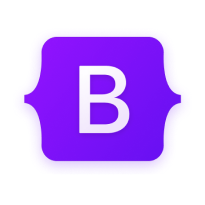
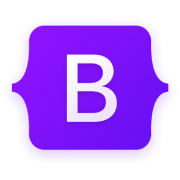
skills tamaño

Changed region(s): [[0.0556, 0.1389, 0.9444, 0.8889], [0.3611, 0.2778, 0.6667, 0.6944]]

diff --git a/index.html b/index.html
@@ -143,42 +143,42 @@
                 <h2 class="text-center">SKILLS</h2>
             </div>
             <div class="row">
-                <div class="col-xs-3 col-sm-3 col-md-3 mb-4">
+                <div class="col-xs-6 col-md-3 col-sm-3 mb-4">
                     <div class="cardSkills ">
                         <img src="img/htmltransp.png" alt="" class="card-img-top">
                     </div>
                 </div>
-                <div class="col-xs-3 col-sm-3 col-md-3 mb-4">
+                <div class="col-xs-6 col-sm-3 col-md-3 mb-4">
                     <div class="cardSkills">
                         <img src="img/cc3transp.png" alt="" class="card-img-top">
                     </div>
                 </div>
-                <div class="col-xs-3 col-sm-3 col-md-3 mb-4">
+                <div class="col-xs-6 col-sm-3 col-md-3 mb-4">
                     <div class="cardSkills">
                         <img src="img/gittransp.png" alt="" class="card-img-top">
                     </div>
                 </div>
-                <div class="col-xs-3 col-sm-3 col-md-3 mb-4">
-                    <div class="cardSkills">
+                <div class="col-xs-6 col-sm-3 col-md-3 mb-4">
+                    <div class="card cardSkills">
                         <img src="img/githugtransp.png" alt="" class="card-img-top">
                     </div>
                 </div>
-                <div class="col-xs-3 col-sm-3 col-md-3 mb-4">
+                <div class="col-xs-6 col-sm-3 col-md-3 mb-4">
                     <div class="cardSkills ">
                         <img src="img/figmatransp.png" alt="" class="card-img-top">
                     </div>
                 </div>
-                <div class="col-xs-3 col-sm-3 col-md-3 mb-4">
+                <div class="col-xs-6 col-sm-3 col-md-3 mb-4">
                     <div class="cardSkills">
                         <img src="img/boostraptransp.png" alt="" class="card-img-top">
                     </div>
                 </div>
-                <div class="col-xs-3 col-sm-3 col-md-3 mb-4">
+                <div class="col-xs-6 col-sm-3 col-md-3 mb-4">
                     <div class="cardSkills">
                         <img src="img/illustratortransp.png" alt="" class="card-img-top">
                     </div>
                 </div>
-                <div class="col-xs-3 col-sm-3 col-md-3 mb-4">
+                <div class="col-xs-6 col-sm-3 col-md-3 mb-4">
                     <div class="cardSkills">
                         <img src="img/premieretransp.png" alt="" class="card-img-top">
                     </div>

diff --git a/css/style.css b/css/style.css
@@ -253,11 +253,7 @@ h3.nombreApellido {
 }
 
 
-/*****************SKILLS*******************/
 
-.cardSkills {
-  margin-left: 50px ;
-}
 
 
 
@@ -492,8 +488,8 @@ h3.nombreApellido {
 
   }
   .cardSkills {
-    margin-left: -40px;
-    height: 150px;
-    width: 150px;
+    
+    height: 50px;
+    width: 50px;
   }
 }
